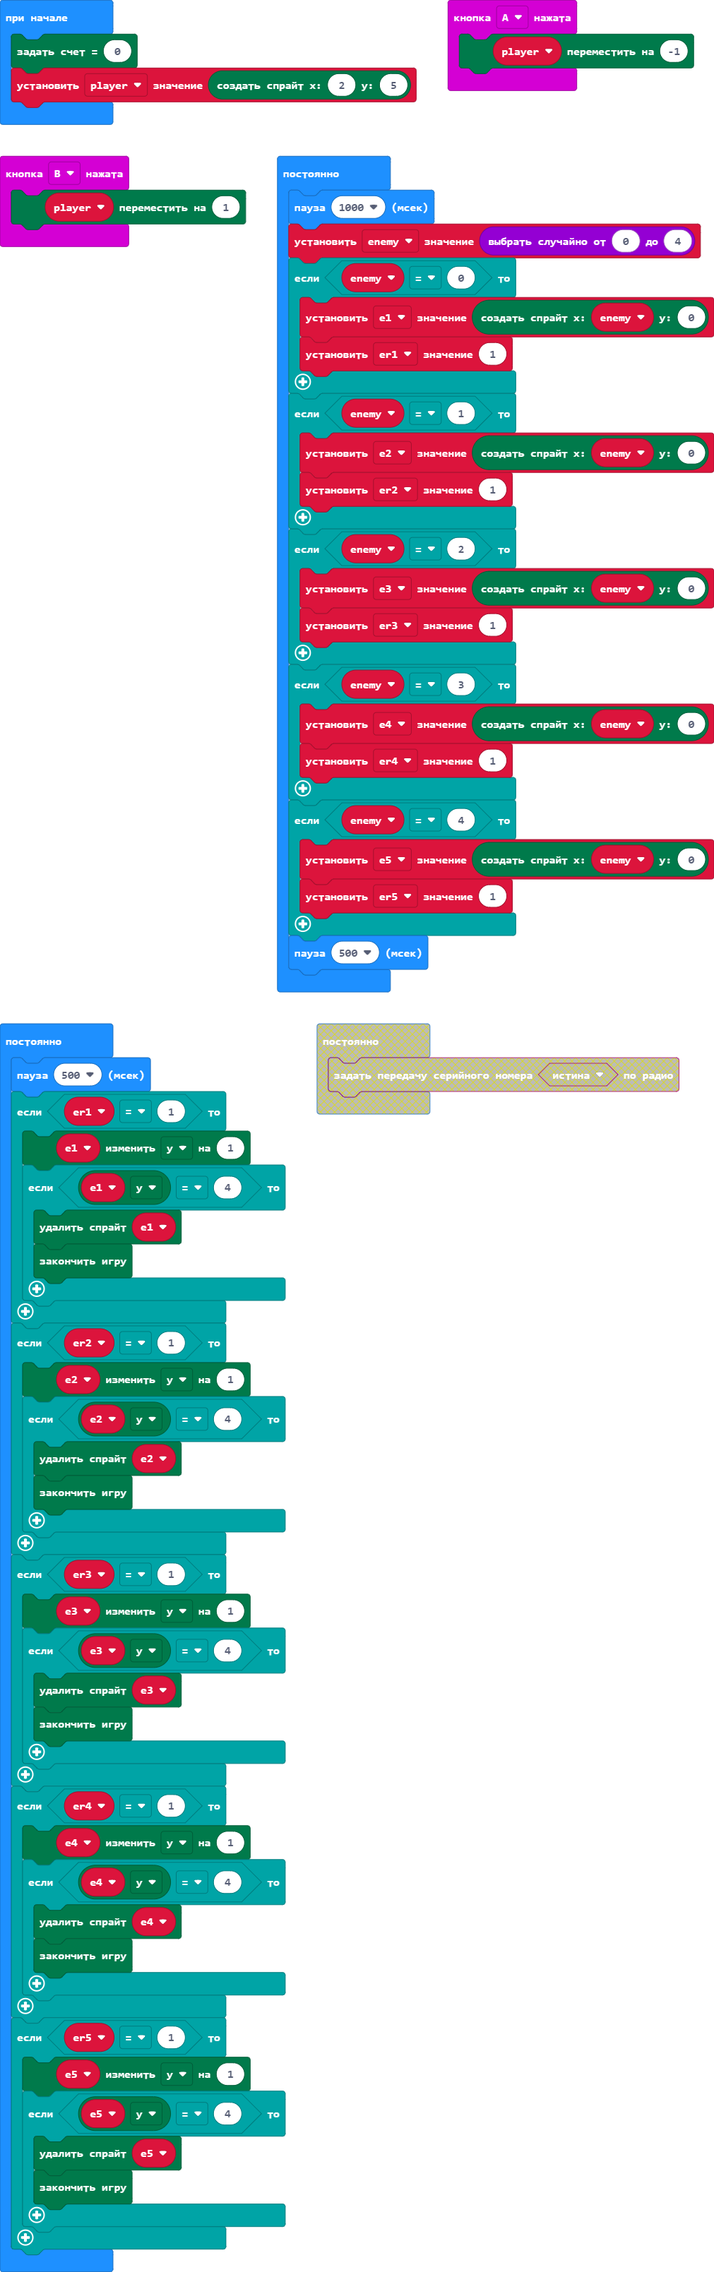
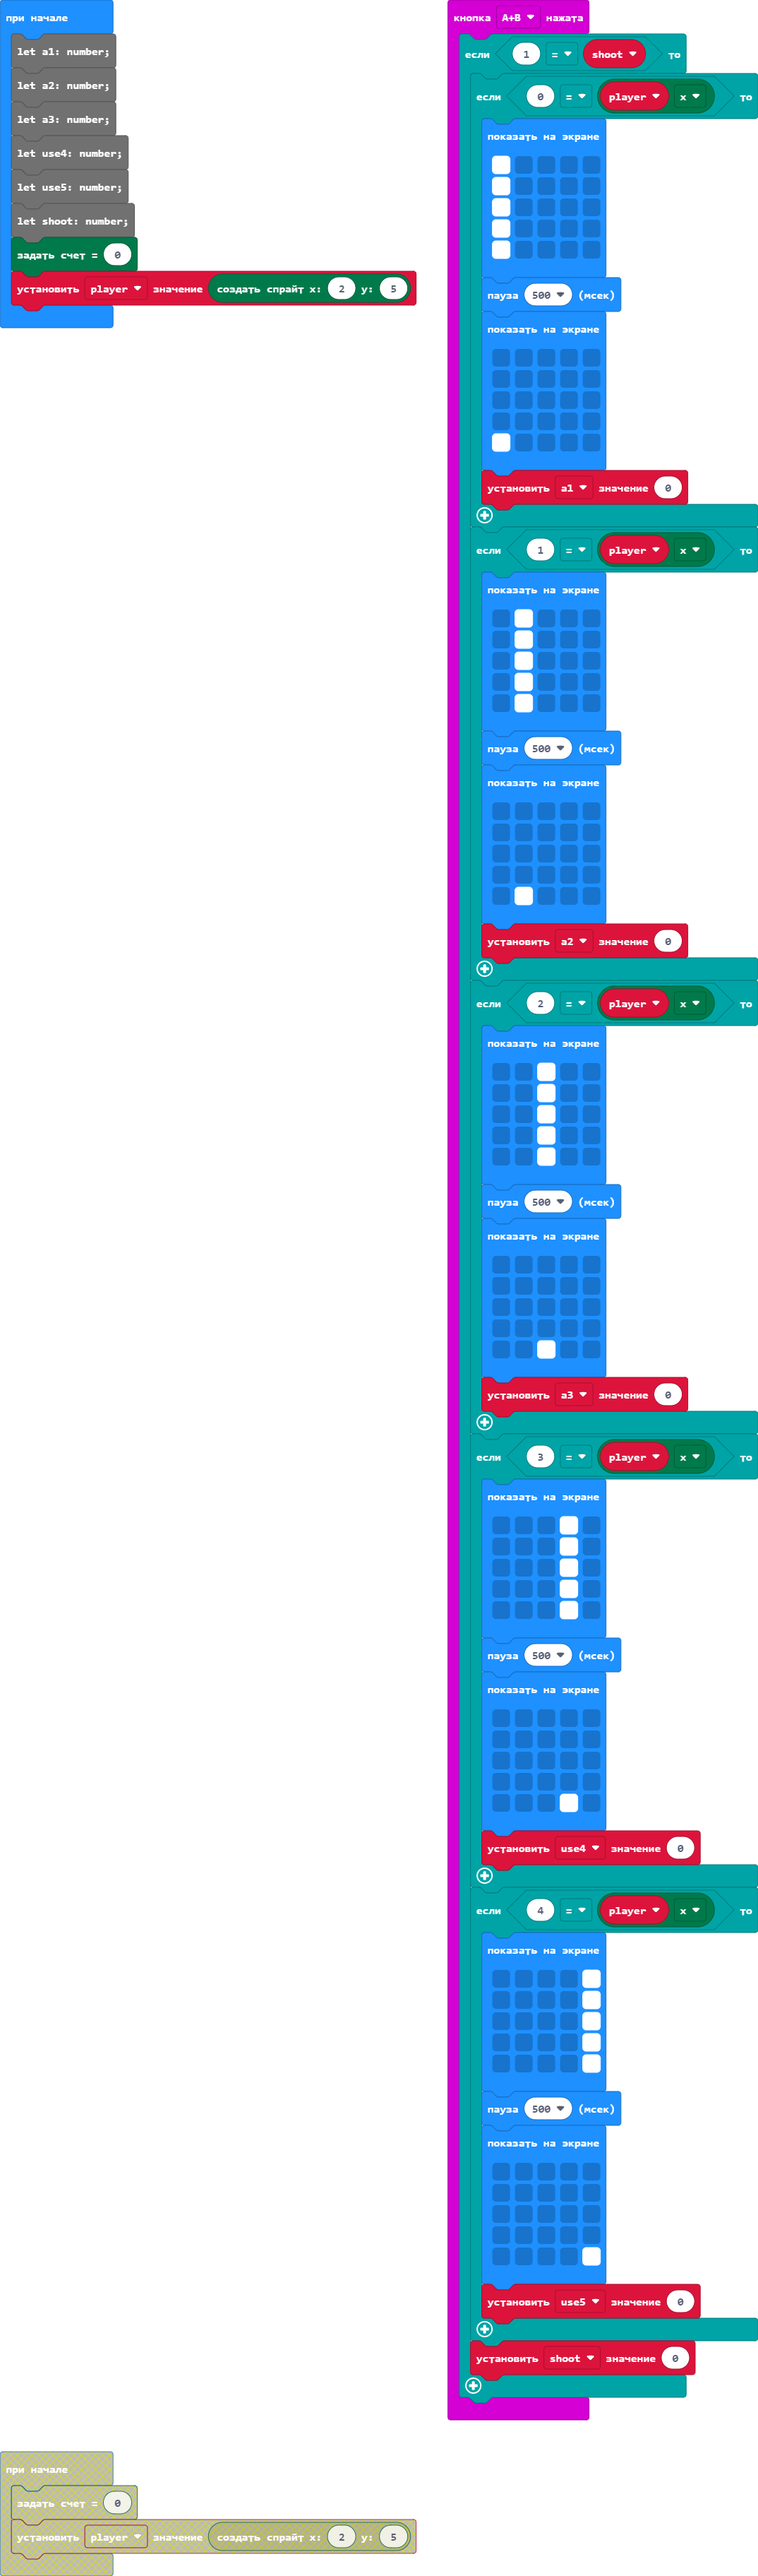
Обновить main.blocks, main.ts, main.py

diff --git a/main.ts b/main.ts
@@ -1,6 +1,101 @@
 input.onButtonPressed(Button.A, function () {
     player.move(-1)
 })
+input.onButtonPressed(Button.AB, function () {
+    if (1 == shoot) {
+        if (0 == player.get(LedSpriteProperty.X)) {
+            basic.showLeds(`
+                # . . . .
+                # . . . .
+                # . . . .
+                # . . . .
+                # . . . .
+                `)
+            basic.pause(500)
+            basic.showLeds(`
+                . . . . .
+                . . . . .
+                . . . . .
+                . . . . .
+                # . . . .
+                `)
+            a1 = 0
+        }
+        if (1 == player.get(LedSpriteProperty.X)) {
+            basic.showLeds(`
+                . # . . .
+                . # . . .
+                . # . . .
+                . # . . .
+                . # . . .
+                `)
+            basic.pause(500)
+            basic.showLeds(`
+                . . . . .
+                . . . . .
+                . . . . .
+                . . . . .
+                . # . . .
+                `)
+            a2 = 0
+        }
+        if (2 == player.get(LedSpriteProperty.X)) {
+            basic.showLeds(`
+                . . # . .
+                . . # . .
+                . . # . .
+                . . # . .
+                . . # . .
+                `)
+            basic.pause(500)
+            basic.showLeds(`
+                . . . . .
+                . . . . .
+                . . . . .
+                . . . . .
+                . . # . .
+                `)
+            a3 = 0
+        }
+        if (3 == player.get(LedSpriteProperty.X)) {
+            basic.showLeds(`
+                . . . # .
+                . . . # .
+                . . . # .
+                . . . # .
+                . . . # .
+                `)
+            basic.pause(500)
+            basic.showLeds(`
+                . . . . .
+                . . . . .
+                . . . . .
+                . . . . .
+                . . . # .
+                `)
+            use4 = 0
+        }
+        if (4 == player.get(LedSpriteProperty.X)) {
+            basic.showLeds(`
+                . . . . #
+                . . . . #
+                . . . . #
+                . . . . #
+                . . . . #
+                `)
+            basic.pause(500)
+            basic.showLeds(`
+                . . . . .
+                . . . . .
+                . . . . .
+                . . . . .
+                . . . . #
+                `)
+            use5 = 0
+        }
+        shoot = 0
+    }
+})
 input.onButtonPressed(Button.B, function () {
     player.move(1)
 })
@@ -16,6 +111,12 @@ let er1 = 0
 let e1: game.LedSprite = null
 let enemy = 0
 let player: game.LedSprite = null
+let a1: number;
+let a2: number;
+let a3: number;
+let use4: number;
+let use5: number;
+let shoot: number;
 game.setScore(0)
 player = game.createSprite(2, 5)
 basic.forever(function () {

diff --git a/main.py b/main.py
@@ -6,22 +6,132 @@ def on_button_pressed_b():
     player.move(1)
 input.on_button_pressed(Button.B, on_button_pressed_b)
 
-enemy = 0
-e5: game.LedSprite = None
 er5 = 0
-e4: game.LedSprite = None
+e5: game.LedSprite = None
 er4 = 0
-e3: game.LedSprite = None
+e4: game.LedSprite = None
 er3 = 0
-e2: game.LedSprite = None
+e3: game.LedSprite = None
 er2 = 0
-e1: game.LedSprite = None
+e2: game.LedSprite = None
 er1 = 0
+e1: game.LedSprite = None
+enemy = 0
 player: game.LedSprite = None
 game.set_score(0)
 player = game.create_sprite(2, 5)
 
+if 1 == shoot:
+    if 0 == player.get(LedSpriteProperty.X):
+        basic.show_leds("""
+            # . . . .
+                        # . . . .
+                        # . . . .
+                        # . . . .
+                        # . . . .
+        """)
+        basic.pause(500)
+        basic.show_leds("""
+            . . . . .
+                        . . . . .
+                        . . . . .
+                        . . . . .
+                        # . . . .
+        """)
+        a1 = 0
+    if 1 == player.get(LedSpriteProperty.X):
+        basic.show_leds("""
+            . # . . .
+                        . # . . .
+                        . # . . .
+                        . # . . .
+                        . # . . .
+        """)
+        basic.pause(500)
+        basic.show_leds("""
+            . . . . .
+                        . . . . .
+                        . . . . .
+                        . . . . .
+                        . # . . .
+        """)
+        a2 = 0
+    if 2 == player.get(LedSpriteProperty.X):
+        basic.show_leds("""
+            . . # . .
+                        . . # . .
+                        . . # . .
+                        . . # . .
+                        . . # . .
+        """)
+        basic.pause(500)
+        basic.show_leds("""
+            . . . . .
+                        . . . . .
+                        . . . . .
+                        . . . . .
+                        . . # . .
+        """)
+        a3 = 0
+    if 3 == player.get(LedSpriteProperty.X):
+        basic.show_leds("""
+            . . . # .
+                        . . . # .
+                        . . . # .
+                        . . . # .
+                        . . . # .
+        """)
+        basic.pause(500)
+        basic.show_leds("""
+            . . . . .
+                        . . . . .
+                        . . . . .
+                        . . . . .
+                        . . . # .
+        """)
+        use4 = 0
+    if 4 == player.get(LedSpriteProperty.X):
+        basic.show_leds("""
+            . . . . #
+                        . . . . #
+                        . . . . #
+                        . . . . #
+                        . . . . #
+        """)
+        basic.pause(500)
+        basic.show_leds("""
+            . . . . .
+                        . . . . .
+                        . . . . .
+                        . . . . .
+                        . . . . #
+        """)
+        use5 = 0
+    shoot = 0
+
 def on_forever():
+    global enemy, e1, er1, e2, er2, e3, er3, e4, er4, e5, er5
+    basic.pause(1000)
+    enemy = randint(0, 4)
+    if enemy == 0:
+        e1 = game.create_sprite(enemy, 0)
+        er1 = 1
+    if enemy == 1:
+        e2 = game.create_sprite(enemy, 0)
+        er2 = 1
+    if enemy == 2:
+        e3 = game.create_sprite(enemy, 0)
+        er3 = 1
+    if enemy == 3:
+        e4 = game.create_sprite(enemy, 0)
+        er4 = 1
+    if enemy == 4:
+        e5 = game.create_sprite(enemy, 0)
+        er5 = 1
+    basic.pause(500)
+basic.forever(on_forever)
+
+def on_forever2():
     basic.pause(500)
     if er1 == 1:
         e1.change(LedSpriteProperty.Y, 1)
@@ -48,26 +158,4 @@ def on_forever():
         if e5.get(LedSpriteProperty.Y) == 4:
             e5.delete()
             game.game_over()
-basic.forever(on_forever)
-
-def on_forever2():
-    global enemy, e1, er1, e2, er2, e3, er3, e4, er4, e5, er5
-    basic.pause(1000)
-    enemy = randint(0, 4)
-    if enemy == 0:
-        e1 = game.create_sprite(enemy, 0)
-        er1 = 1
-    if enemy == 1:
-        e2 = game.create_sprite(enemy, 0)
-        er2 = 1
-    if enemy == 2:
-        e3 = game.create_sprite(enemy, 0)
-        er3 = 1
-    if enemy == 3:
-        e4 = game.create_sprite(enemy, 0)
-        er4 = 1
-    if enemy == 4:
-        e5 = game.create_sprite(enemy, 0)
-        er5 = 1
-    basic.pause(500)
 basic.forever(on_forever2)
